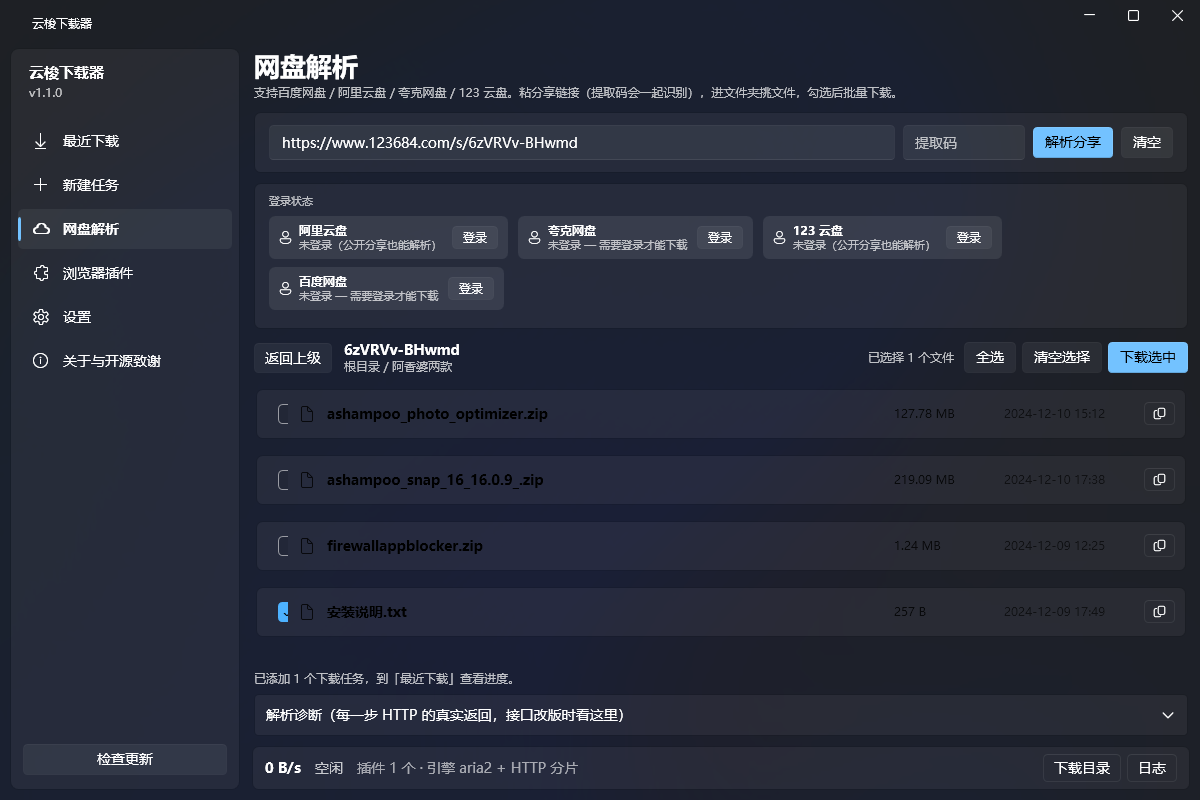
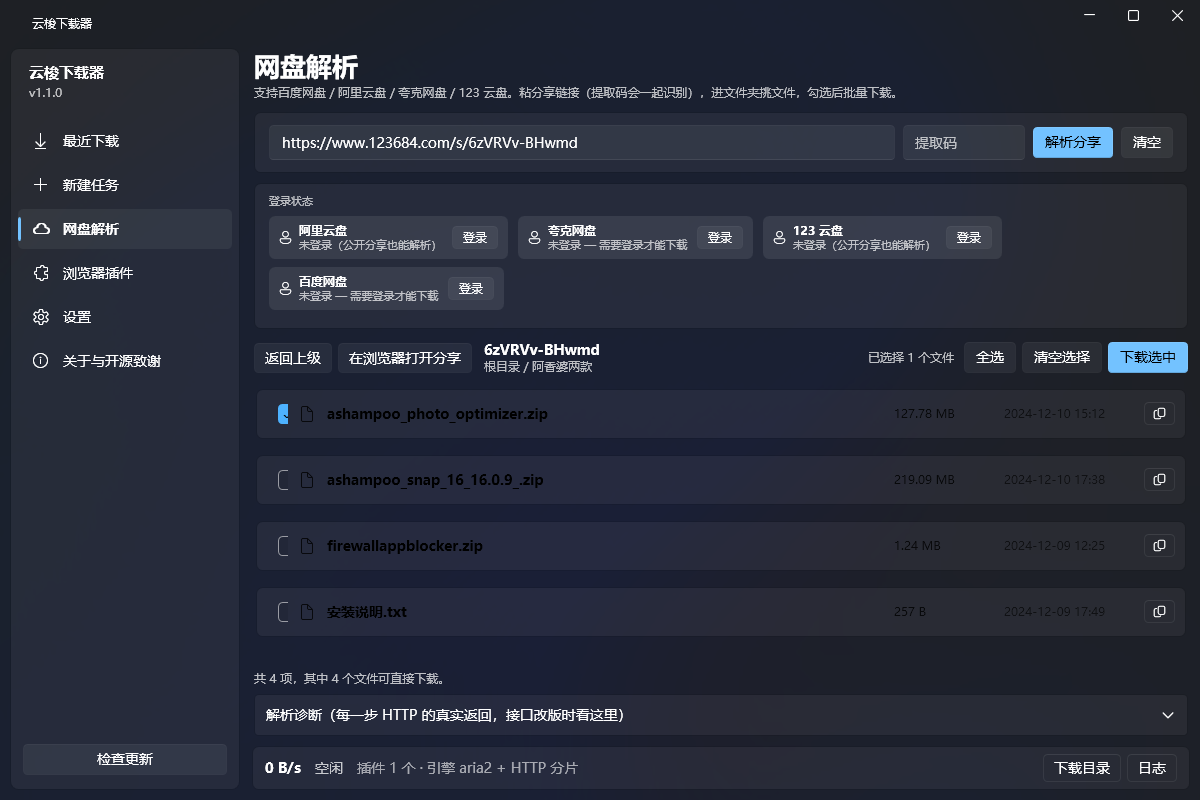
feat(pan): 登录态支持镜像域名匹配 + 「在浏览器打开分享」入口；补 5 条登录态自检
- 插件采集通道之前只认一个主域名：用户在 123684.com 登录，程序却认 123pan.com，
  永远匹配不上。改成每家给一串域名（含镜像/旧域名）并做子域后缀匹配
- 阿里云盘匿名直链被官方关闭，加「在浏览器打开分享」按钮，配合插件嗅探下载地址
- 标题回退：网盘不返回分享名时显示「XX 分享」而不是裸 ID
- 自检新增：域名匹配（子域算同一站、相似域名不算）、123 镜像域名表、
  插件采集的 Cookie 能被网盘解析认出来、不会串到别家

diff --git a/src/YunsuoDownloader.App/Views/Pages/PanPage.xaml b/src/YunsuoDownloader.App/Views/Pages/PanPage.xaml
@@ -90,8 +90,13 @@
                 <ColumnDefinition Width="Auto" />
             </Grid.ColumnDefinitions>
 
-            <ui:Button Grid.Column="0" Appearance="Secondary" Padding="10,5" Content="返回上级"
-                       IsEnabled="{Binding CanGoUp}" Command="{Binding UpCommand}" />
+            <StackPanel Grid.Column="0" Orientation="Horizontal">
+                <ui:Button Appearance="Secondary" Padding="10,5" Content="返回上级"
+                           IsEnabled="{Binding CanGoUp}" Command="{Binding UpCommand}" />
+                <ui:Button Appearance="Secondary" Padding="10,5" Content="在浏览器打开分享" Margin="6,0,0,0"
+                           ToolTip="阿里云盘的匿名直链已被官方关闭，可以在这里用「浏览器 + 插件嗅探」拿下载地址"
+                           IsEnabled="{Binding CanOpenShare}" Command="{Binding OpenShareCommand}" />
+            </StackPanel>
             <StackPanel Grid.Column="1" Margin="12,0" VerticalAlignment="Center">
                 <TextBlock Text="{Binding ShareTitle}" FontWeight="SemiBold" TextTrimming="CharacterEllipsis" />
                 <TextBlock Text="{Binding DirPathText}" Style="{StaticResource CaptionTextStyle}"

diff --git a/src/YunsuoDownloader.Core/Services/SettingsService.cs b/src/YunsuoDownloader.Core/Services/SettingsService.cs
@@ -134,15 +134,16 @@ public sealed class SettingsService
         var manual = FindCredential(provider)?.Cookie;
         if (!string.IsNullOrWhiteSpace(manual)) return manual;
 
-        // 没有手填的：按 provider 对应的域名去插件采集的缓存里找
-        var domain = ProviderDomain(provider);
-        if (domain is null) return null;
+        // 没有手填的：按 provider 对应的域名去插件采集的缓存里找。
+        // 一个网盘往往有多个域名（阿里 alipan / aliyundrive，123 有一堆镜像），
+        // 所以这里按"域名列表 + 子域后缀"匹配，否则用户在 123684.com 上登录过，
+        // 程序认的是 123pan.com，就永远匹配不上。
+        var domains = ProviderDomains(provider);
+        if (domains.Length == 0) return null;
 
         lock (_lock)
         {
-            var hit = Current.BrowserCookies.FirstOrDefault(c =>
-                c.Domain.Equals(domain, StringComparison.OrdinalIgnoreCase) ||
-                c.Domain.EndsWith("." + domain, StringComparison.OrdinalIgnoreCase));
+            var hit = Current.BrowserCookies.FirstOrDefault(c => domains.Any(d => MatchesDomain(c.Domain, d)));
             if (hit is null) return null;
             if (!string.IsNullOrEmpty(hit.Cookie)) return hit.Cookie;
             if (string.IsNullOrEmpty(hit.CookieProtected)) return null;
@@ -152,15 +153,38 @@ public sealed class SettingsService
         }
     }
 
-    /// <summary>网盘 Provider → 该网站的主域名（用于匹配插件采集的 Cookie）。</summary>
-    public static string? ProviderDomain(string provider) => provider.ToLowerInvariant() switch
+    /// <summary>Cookie 的域名是否属于 <paramref name="domain"/>（含子域名，双向兼容）。</summary>
+    public static bool MatchesDomain(string? cookieDomain, string domain)
     {
-        "baidu" => "pan.baidu.com",
-        "aliyun" => "www.alipan.com",
-        "quark" => "pan.quark.cn",
-        "pan123" => "www.123pan.com",
-        _ => null
+        if (string.IsNullOrWhiteSpace(cookieDomain)) return false;
+        return cookieDomain.Equals(domain, StringComparison.OrdinalIgnoreCase)
+               || cookieDomain.EndsWith("." + domain, StringComparison.OrdinalIgnoreCase)
+               || domain.EndsWith("." + cookieDomain, StringComparison.OrdinalIgnoreCase);
+    }
+
+    /// <summary>
+    /// 网盘 Provider → 可能落到哪些域名上（插件采集是按域名存的）。
+    /// 第一个是主域名，其余是镜像/旧域名。
+    /// </summary>
+    public static string[] ProviderDomains(string provider) => provider.ToLowerInvariant() switch
+    {
+        "baidu" => new[] { "pan.baidu.com", "baidu.com" },
+        "aliyun" => new[] { "www.alipan.com", "www.aliyundrive.com", "alipan.com", "aliyundrive.com" },
+        "quark" => new[] { "pan.quark.cn", "quark.cn" },
+        "pan123" => new[]
+        {
+            "www.123pan.com", "www.123684.com", "www.123865.com", "www.123912.com", "www.123592.com",
+            "123pan.com", "123684.com", "123865.com"
+        },
+        _ => Array.Empty<string>()
     };
+
+    /// <summary>兼容旧调用：取第一个主域名。</summary>
+    public static string? ProviderDomain(string provider)
+    {
+        var list = ProviderDomains(provider);
+        return list.Length > 0 ? list[0] : null;
+    }
 
     public void SetCredential(string provider, string displayName, string cookie)
     {

diff --git a/src/YunsuoDownloader.App/ViewModels/PanViewModel.cs b/src/YunsuoDownloader.App/ViewModels/PanViewModel.cs
@@ -1,4 +1,5 @@
 using System.Collections.ObjectModel;
+using System.Diagnostics;
 using System.Windows;
 using CommunityToolkit.Mvvm.ComponentModel;
 using CommunityToolkit.Mvvm.Input;
@@ -87,6 +88,7 @@ public sealed partial class PanViewModel : ObservableObject
     [ObservableProperty] private bool _hasError;
     [ObservableProperty] private string _errorText = string.Empty;
     [ObservableProperty] private bool _hasEmpty = true;
+    [ObservableProperty] private bool _canOpenShare;
 
     public ObservableCollection<PanLoginRow> Logins { get; } = new();
 
@@ -173,7 +175,29 @@ public sealed partial class PanViewModel : ObservableObject
         if (typed.Length > 0) share.Password = typed;
 
         _share = share;
+        CanOpenShare = true;
         await LoadDirAsync(provider.RootId, resetCrumbs: true);
+    }
+
+    /// <summary>
+    /// 在默认浏览器里打开这条分享。
+    ///
+    /// 阿里云盘现在的匿名直链被官方关掉了（410），唯一稳的下载方式是
+    /// 「浏览器里打开分享 → 插件嗅探下载地址」，所以这个按钮是给那条路留的入口。
+    /// </summary>
+    [RelayCommand]
+    private void OpenShare()
+    {
+        if (_share is null) return;
+        try
+        {
+            Process.Start(new ProcessStartInfo(_share.OriginalUrl) { UseShellExecute = true });
+            StatusMessage = "已在浏览器中打开分享。阿里云盘可以在这时用浏览器插件嗅探下载地址。";
+        }
+        catch (Exception ex)
+        {
+            StatusMessage = "打开浏览器失败：" + ex.Message;
+        }
     }
 
     [RelayCommand]
@@ -242,7 +266,10 @@ public sealed partial class PanViewModel : ObservableObject
             }
 
             _share.Title = result.ShareTitle ?? _share.Title;
-            ShareTitle = _share.Title ?? _share.ShareId;
+            // 有的网盘（123）不返回分享名，这时别把裸 ID 当标题显示
+            ShareTitle = string.IsNullOrWhiteSpace(_share.Title) || _share.Title == _share.ShareId
+                ? $"{PanCatalog.Find(_share.ProviderId)?.DisplayName ?? "网盘"}分享"
+                : _share.Title!;
             HasResult = Files.Count > 0;
             HasEmpty = Files.Count == 0;
             DirPathText = _crumbs.Count == 0
@@ -379,6 +406,7 @@ public sealed partial class PanViewModel : ObservableObject
         Files.Clear();
         _crumbs.Clear();
         _share = null;
+        CanOpenShare = false;
         HasResult = false;
         HasError = false;
         ErrorText = string.Empty;

diff --git a/src/YunsuoDownloader.Cli/SelfTest.cs b/src/YunsuoDownloader.Cli/SelfTest.cs
@@ -527,6 +527,25 @@ public static class SelfTest
         Check("123 直链：params 是乱码时不崩",
             Core.Pan.PanUrl.TryDecodeRedirectParams("https://x/download-v2/?params=%%%") is null);
 
+        // ---- 网盘登录态（插件自动采集通道）----
+        Check("Cookie 域名匹配：子域名算同一站",
+            Core.Services.SettingsService.MatchesDomain("sub.pan.quark.cn", "pan.quark.cn"));
+        Check("Cookie 域名匹配：相似域名不算",
+            !Core.Services.SettingsService.MatchesDomain("evilpan.quark.cn", "pan.quark.cn"));
+        Check("网盘域名表：123 的镜像域名都列了",
+            Core.Services.SettingsService.ProviderDomains("Pan123").Contains("www.123684.com"));
+
+        settings.Update(s => s.BrowserCookies.Add(new Core.Models.BrowserCookie
+        {
+            Domain = "123684.com",
+            Cookie = "__pus=FROM_EXTENSION"
+        }));
+        var viaExtension = settings.GetCookie("Pan123");
+        Check("登录态：插件采集的 Cookie 能被网盘解析认出来（镜像域名）",
+            viaExtension == "__pus=FROM_EXTENSION", viaExtension ?? "无");
+        Check("登录态：不会串到别家网盘",
+            string.IsNullOrEmpty(settings.GetCookie("Quark")), settings.GetCookie("Quark") ?? "空");
+
         // 非网盘链接不受影响（保证没误伤）
         var biliResolve = manager.ResolveAsync("https://www.bilibili.com/video/BV1xx411c7mD")
             .GetAwaiter().GetResult();
